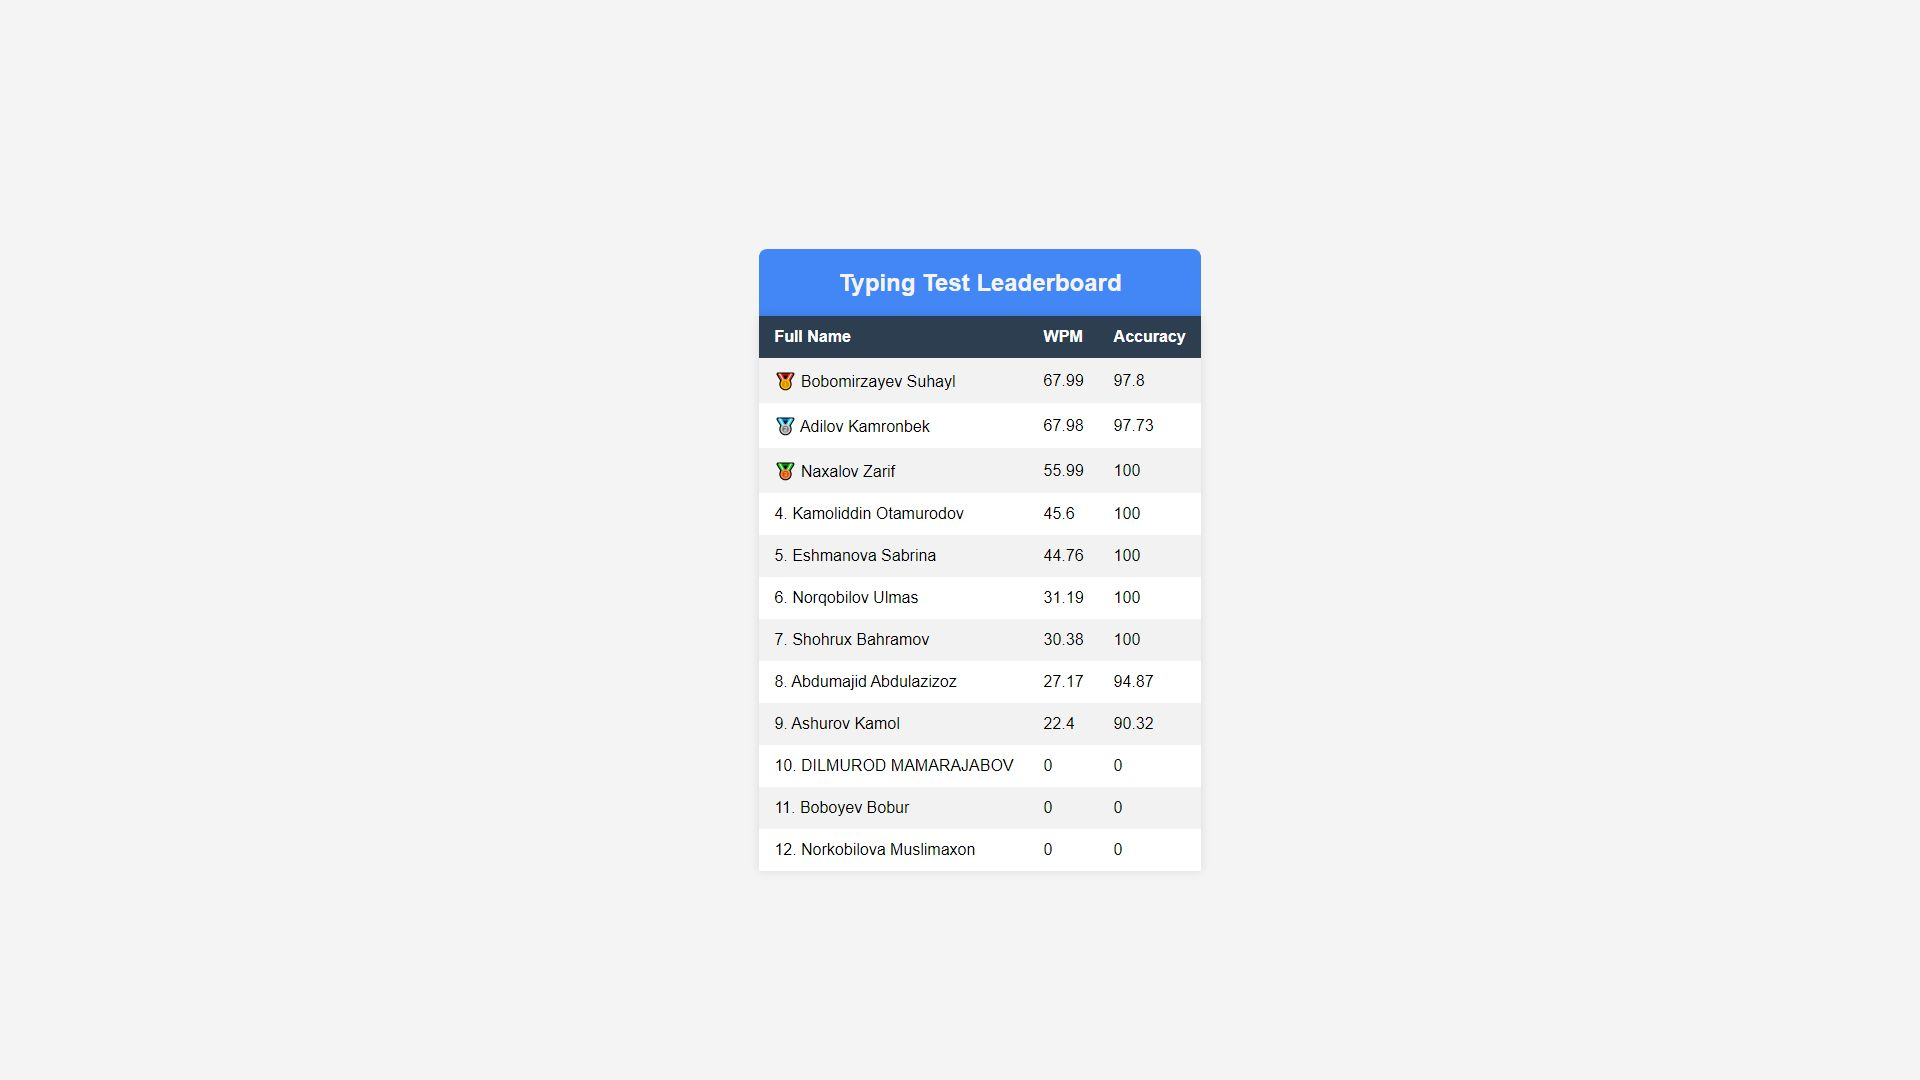
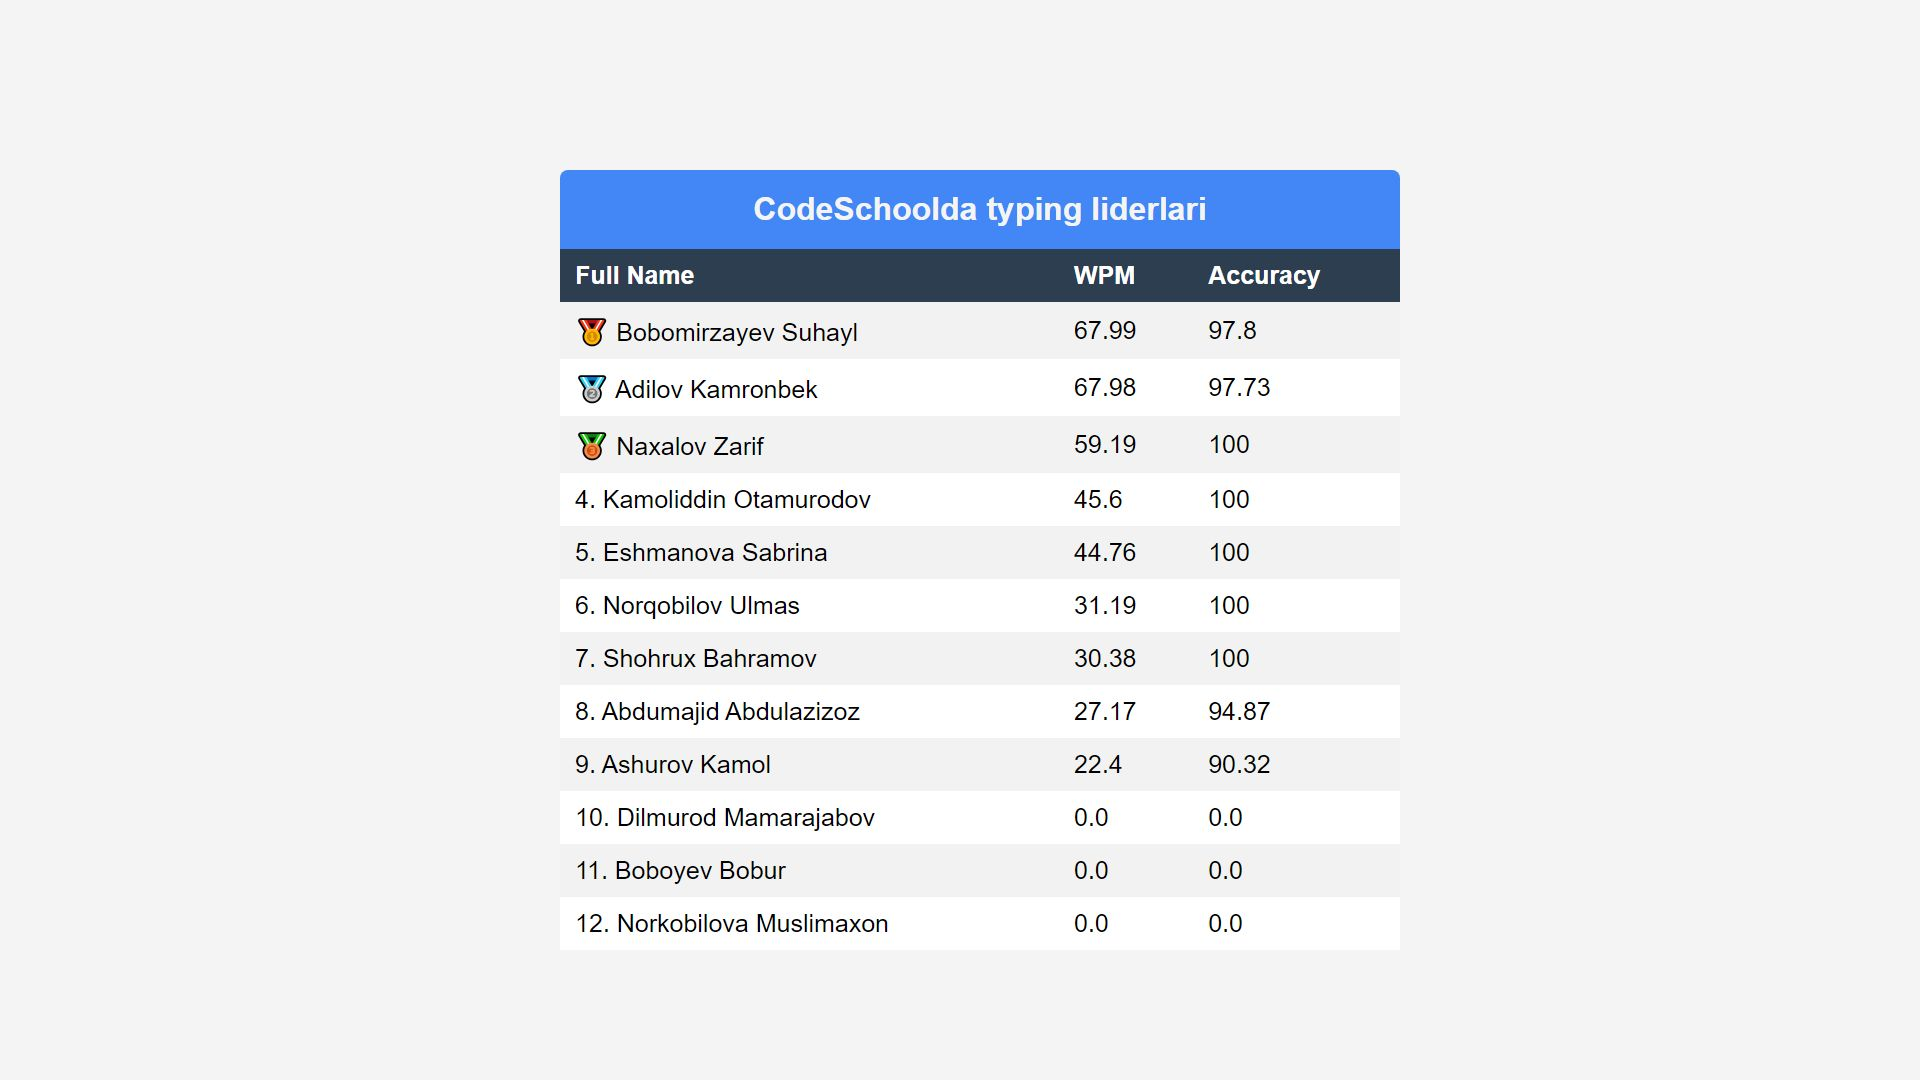
add style

diff --git a/index.html b/index.html
@@ -9,7 +9,7 @@
     </head>
     <body>
         <div>
-            <h2>CodeSchoolda typing liderlari</h2>
+            <h1>CodeSchoolda typing liderlari</h1>
             <table>
                 <tr>
                     <th>Full Name</th>
@@ -31,7 +31,7 @@
             
             <tr>
                 <td>🥉 Naxalov Zarif</td>
-                <td>55.99</td>
+                <td>59.19</td>
                 <td>100</td>
             </tr>
             
@@ -72,21 +72,21 @@
             </tr>
             
             <tr>
-                <td>10. DILMUROD MAMARAJABOV</td>
-                <td>0</td>
-                <td>0</td>
+                <td>10. Dilmurod Mamarajabov</td>
+                <td>0.0</td>
+                <td>0.0</td>
             </tr>
             
             <tr>
                 <td>11. Boboyev Bobur</td>
-                <td>0</td>
-                <td>0</td>
+                <td>0.0</td>
+                <td>0.0</td>
             </tr>
             
             <tr>
                 <td>12. Norkobilova Muslimaxon</td>
-                <td>0</td>
-                <td>0</td>
+                <td>0.0</td>
+                <td>0.0</td>
             </tr>
             
             </table>

diff --git a/style.css b/style.css
@@ -13,18 +13,21 @@ body {
 div {
     background-color: rgba(66, 135, 245);
     border-radius: 8px;
+    width: 840px;
 }
-h2 {
+h1 {
     text-align: center;
     color: #f4f4f4;
 }
 table {
     border-collapse: collapse;
     width: 100%;
-    max-width: 600px;
+    max-width: 840px;
     background-color: #ffffff;
-    box-shadow: 0 0 10px rgba(0, 0, 0, 0.1);
     overflow: hidden;
+    font-size: 25px;
+    font-family:'Times New Roman', Times, serif' 
+    
 }
 
 th, td {
@@ -44,4 +47,15 @@ tr:nth-child(even) {
 
 tr:hover {
     background-color: #e0e0e0;
+}
+
+@media (max-width: 600px) {
+    th, td {
+        font-size: 0.875rem; /* smaller font size for mobile */
+        padding: 10px 12px;
+    }
+
+    h1 {
+        font-size: 1.25rem; /* smaller font size for mobile */
+    }
 }

diff --git a/admin_bot.py b/admin_bot.py
@@ -5,21 +5,15 @@ from main import get_wpm_accuracy,get_user_info,get_users_wpm_accuracy, get_user
 
 
 async def hello(update: Update, context: ContextTypes.DEFAULT_TYPE) -> None:
-    # get group topic id
-
-
-
-    
-    # Print message chat id
 
     print(update.message.chat_id)
-
     await update.message.reply_text(f'Hello {update.effective_user.first_name}')
 
 async def start(update: Update, context: ContextTypes.DEFAULT_TYPE) -> None:
     # Send a message to the group
-
-    await context.bot.send_message(chat_id=GROUP_CHAT_ID, text='Hello!')
+    first_name = update.message.chat.first_name
+    chat_id = update.effective_chat.id
+    await context.bot.send_message(chat_id=chat_id, text=f"Assalomu aleykum {first_name}. Siz bu bot orqali typingdan natijalarni olishingiz mumkin!!!")
 
 async def send_results_to_image(update: Update, context: ContextTypes.DEFAULT_TYPE) -> None:
     # Send a message to the group
@@ -27,8 +21,7 @@ async def send_results_to_image(update: Update, context: ContextTypes.DEFAULT_TY
     users_wpm_accuracy = get_users_wpm_accuracy(users,15)
     image_path = 'monkeytype_results.jpg'
     users_total_convert_image = get_users_html_convert(users_wpm_accuracy, image_path)
-    
-    await context.bot.send_photo(chat_id=GROUP_CHAT_ID, photo=image_path,message_thread_id=2)
+    await context.bot.send_photo(chat_id=GROUP_CHAT_ID, photo=image_path)
 
 
 async def send_results(update: Update, context: ContextTypes.DEFAULT_TYPE) -> None:
@@ -49,7 +42,8 @@ async def send_results(update: Update, context: ContextTypes.DEFAULT_TYPE) -> No
     # Send a message to the group
     await context.bot.send_message(chat_id=GROUP_CHAT_ID, text=results)
 # GROUP chat ID
-GROUP_CHAT_ID =-1002190225722
+# GROUP_CHAT_ID =-1002190225722
+GROUP_CHAT_ID =-1001997475412
 
 TOKEN = os.environ['TOKEN']
 

diff --git a/main.py b/main.py
@@ -10,7 +10,7 @@ def get_wpm_accuracy(username:str,time:int)->dict:
     time = data['data']['personalBests']['time'].get(str(time),0)
 
     if time == 0:
-        return {'wpm':0,'accuracy':0}
+        return {'wpm':0.0,'accuracy':0.0}
     # Get accuracy
     accuracy = time[0].get('acc')
     # Get wpm
@@ -57,7 +57,7 @@ def get_users_html_convert(user_data: list, result_image_path: str):
     for idx,user in enumerate(user_data):
         results += f"""
             <tr>
-                <td>{"🥇 "+user['full_name'] if idx==0 else "🥈 "+user['full_name'] if idx==1 else "🥉 "+user['full_name'] if idx==2 else str(idx+1)+'. '+user['full_name']}</td>
+                <td>{"🥇 "+user['full_name'].title() if idx==0 else "🥈 "+user['full_name'].title() if idx==1 else "🥉 "+user['full_name'].title() if idx==2 else str(idx+1)+'. '+user['full_name'].title()}</td>
                 <td>{user['wpm']}</td>
                 <td>{user['accuracy']}</td>
             </tr>
@@ -73,7 +73,7 @@ def get_users_html_convert(user_data: list, result_image_path: str):
     </head>
     <body>
         <div>
-            <h2>CodeSchoolda typing liderlari</h2>
+            <h1>CodeSchoolda typing liderlari</h1>
             <table>
                 <tr>
                     <th>Full Name</th>
